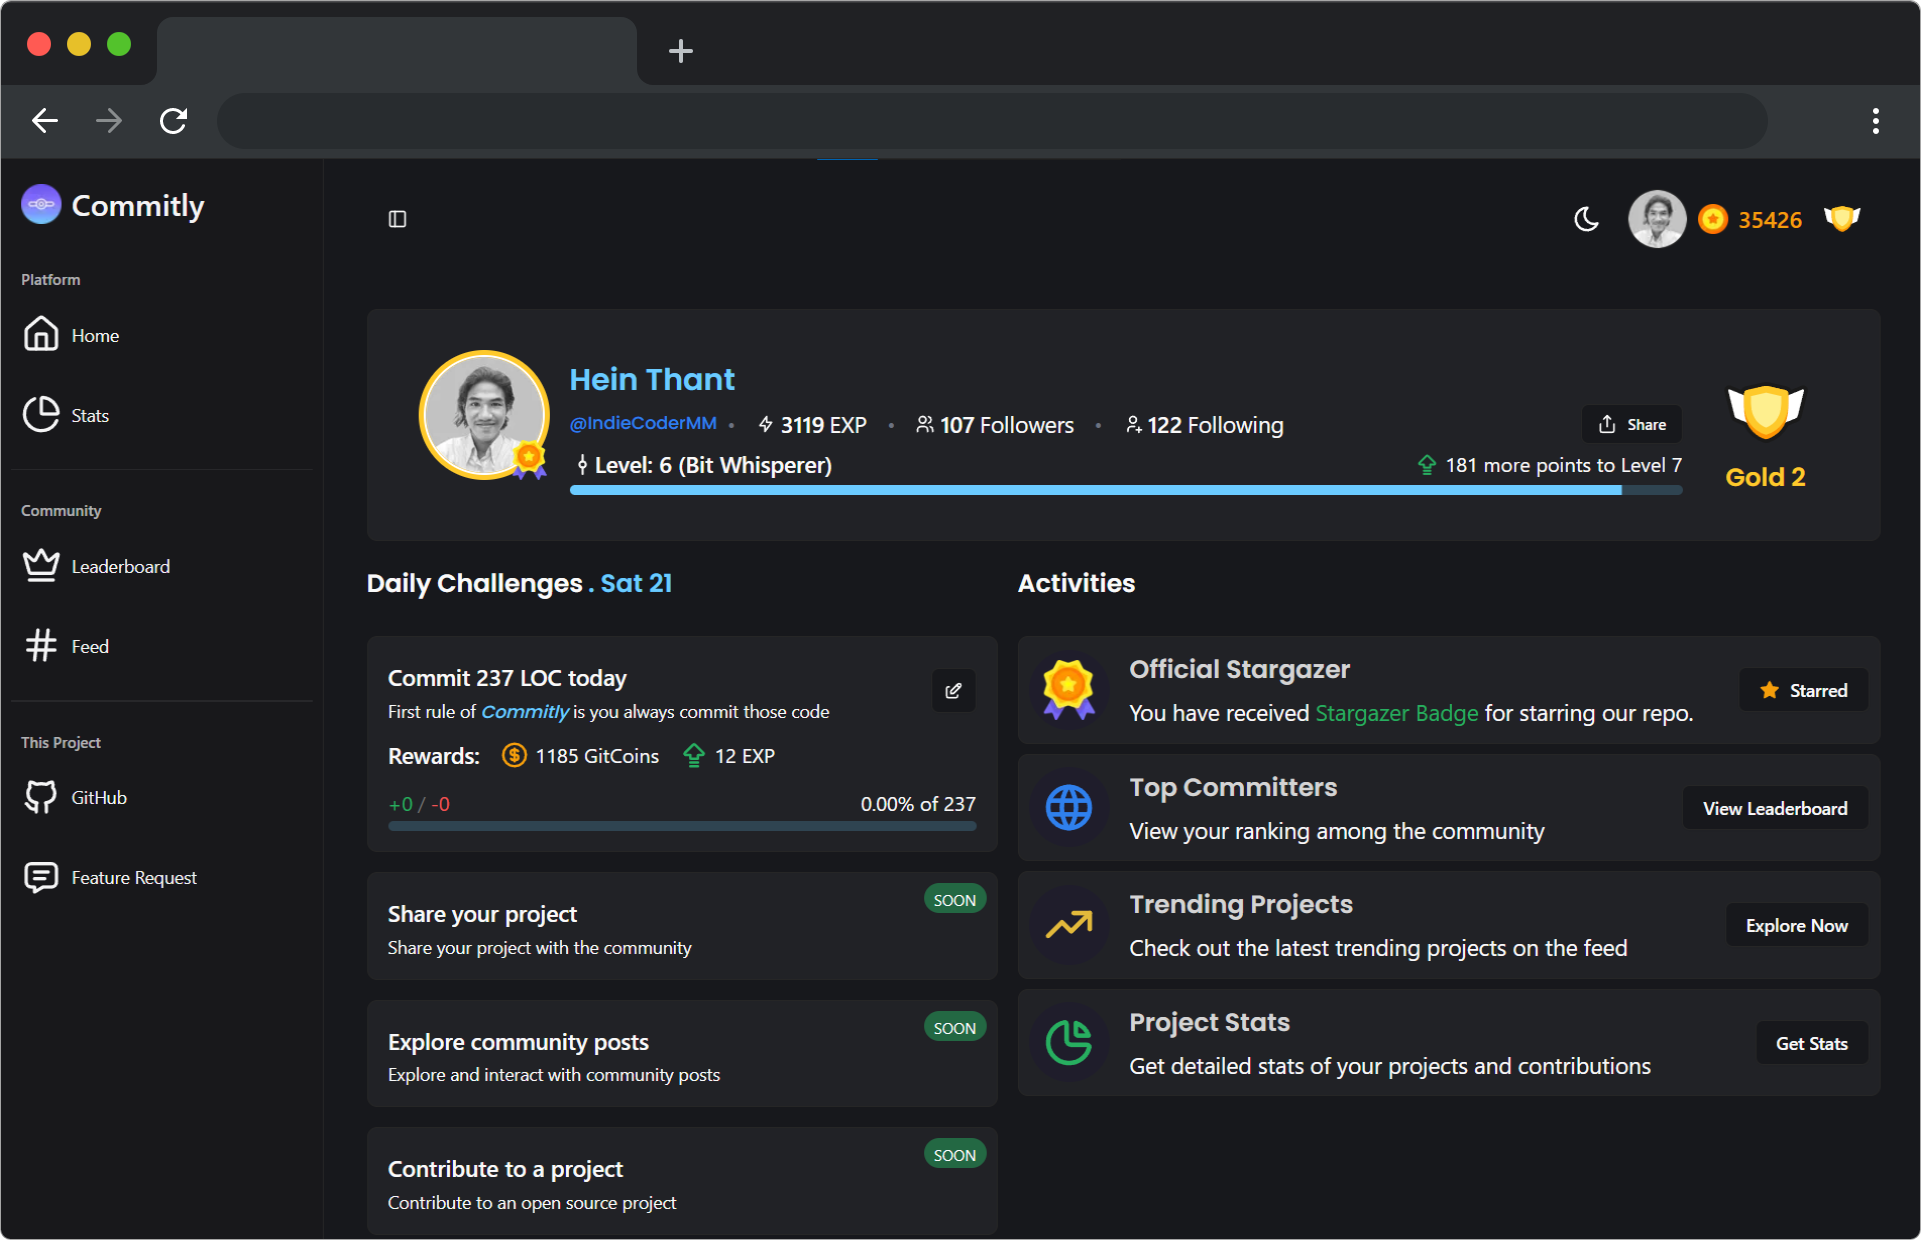
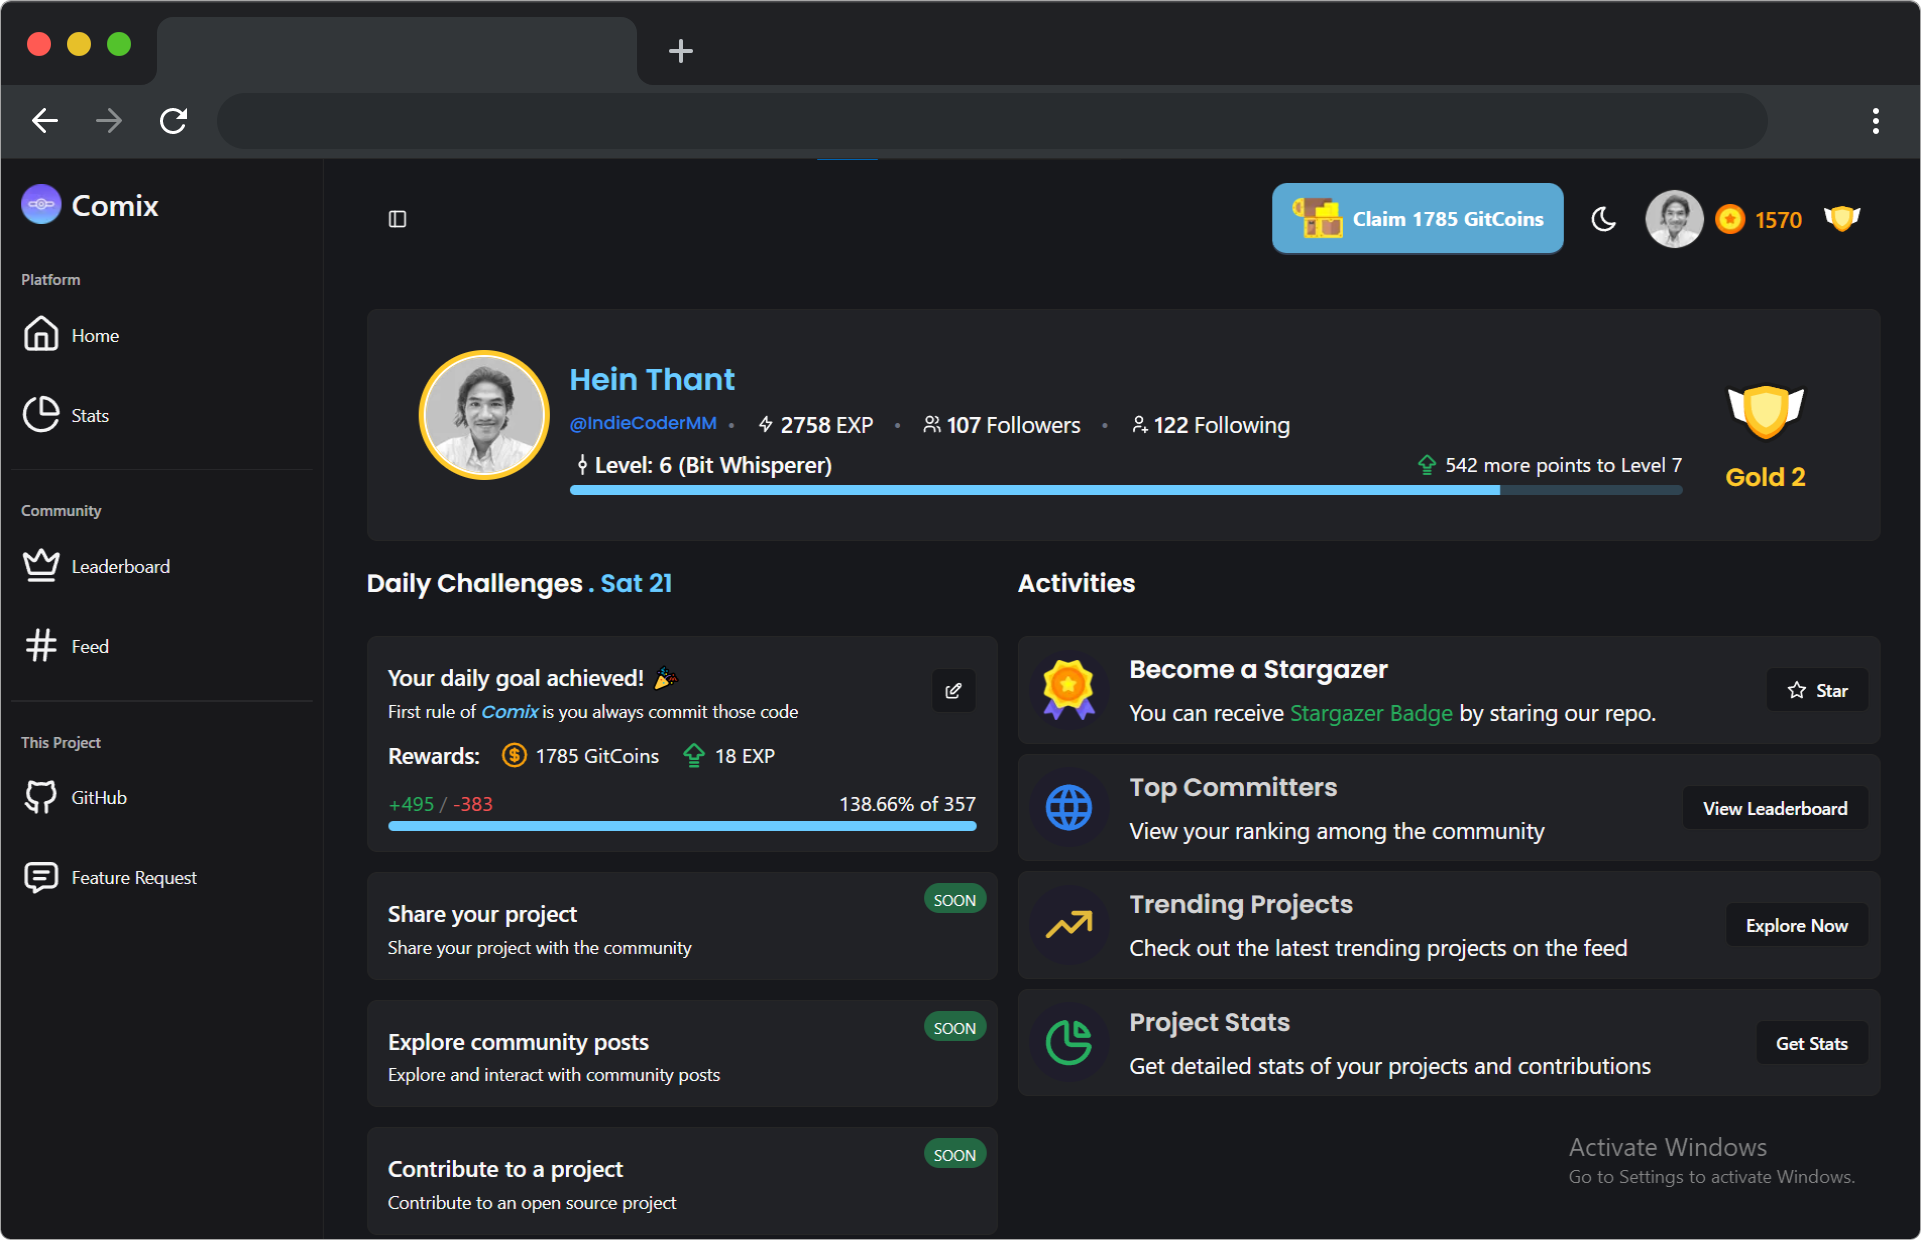
Update ss and links

diff --git a/features/dashboard/components/daily-commit.tsx b/features/dashboard/components/daily-commit.tsx
@@ -55,7 +55,7 @@ const DailyCommit = ({ className }: { className?: string }) => {
   });
 
   const { commitTarget, progress, reward } = useMemo(() => {
-    if (!locData || !metadata) {
+    if (!locData) {
       return {
         commitTarget: DEFAULT_TARGET,
         progress: 0,
@@ -72,7 +72,7 @@ const DailyCommit = ({ className }: { className?: string }) => {
   }, [locData, metadata]);
 
   useEffect(() => {
-    if (!user || !metadata || progress <= 100) {
+    if (!user || !metadata || progress < 100) {
       return;
     }
 
@@ -134,7 +134,7 @@ const DailyCommit = ({ className }: { className?: string }) => {
               {progress.toFixed(2)}% of {commitTarget}
             </span>
           </div>
-          <Progress value={progress > 100 ? 100 : progress} />
+          <Progress value={progress >= 100 ? 100 : progress} />
         </div>
       </div>
     </div>

diff --git a/README.md b/README.md
@@ -3,7 +3,7 @@
 </div>
 
 <div align="center">
-  <a href="https://comix.vercel.app">Home Page</a> |
+  <a href="https://comix-dev.vercel.app">Home Page</a> |
   <a href="https://www.linkedin.com/in/hthantoo/">LinkedIn</a> |
   <a href="https://bsky.app/profile/heinthantoo.bsky.social">BlueSky</a>
 </div>
@@ -31,7 +31,7 @@ With Comix, you can:
 
 Check out **Comix** live! Visit the platform to start tracking your GitHub commits and join the global leaderboard:
 
-<a href="https://comix.vercel.app">https://comix.vercel.app</a>
+<a href="https://comix-dev.vercel.app">https://comix-dev.vercel.app</a>
 
 > [!NOTE]
 > Comix is an early-stage product, and we welcome any feedback to help us improve the platform.
